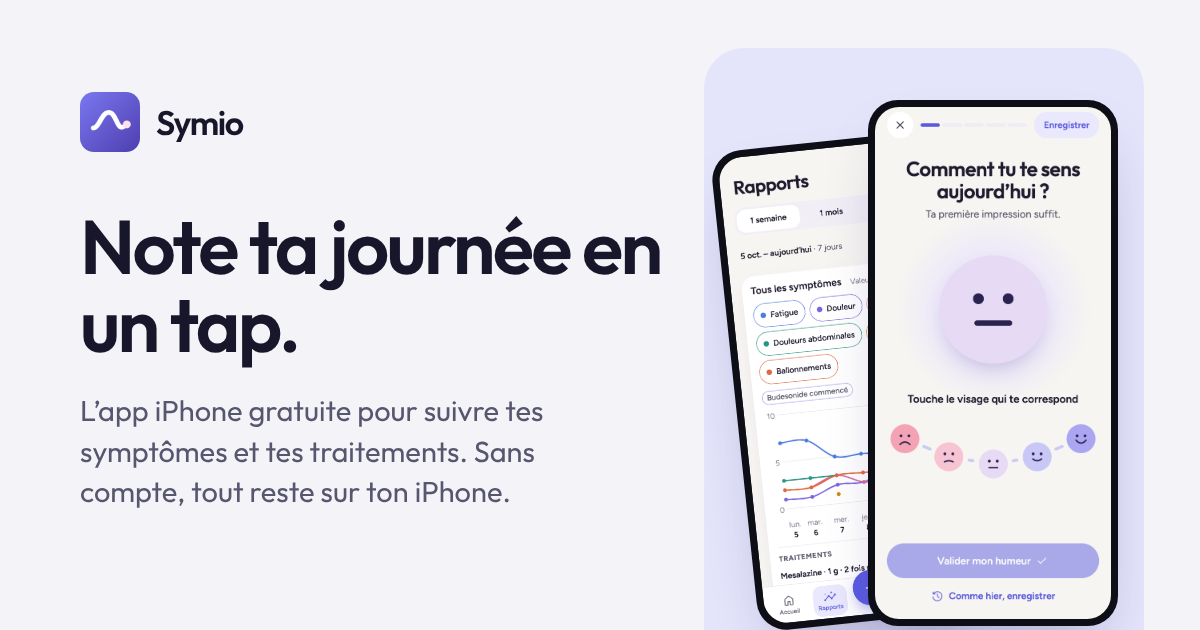
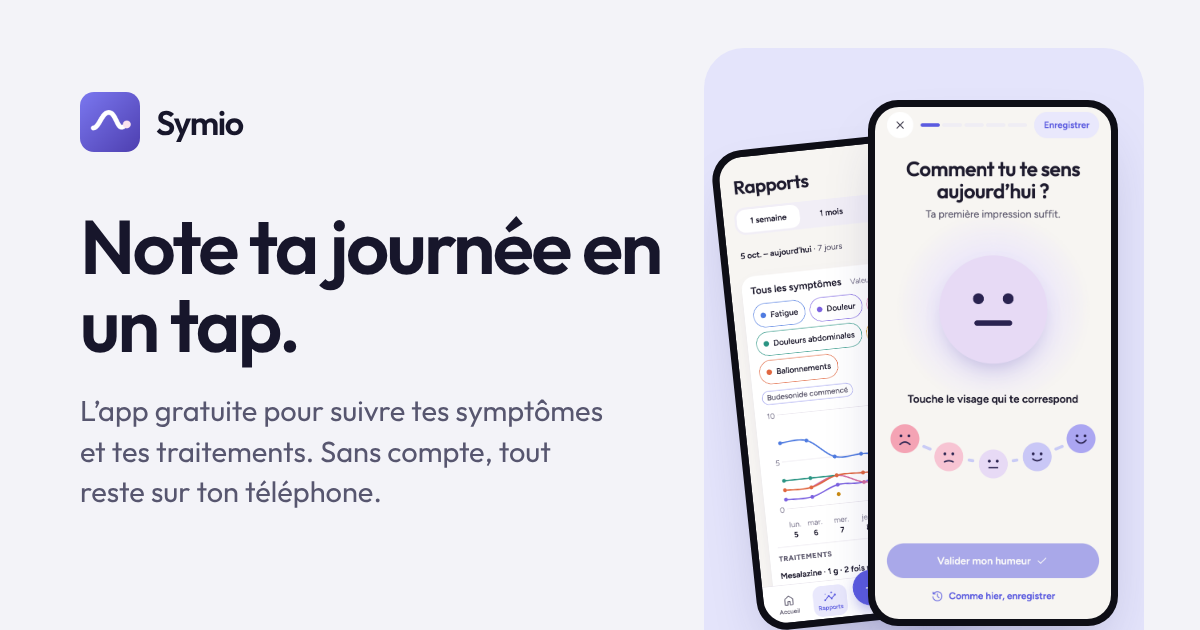
Accueil : passer de « iPhone » à « téléphone » et annoncer Android (#3)
* Politique de confidentialité : couvrir Android, retirer le 144

- Politique mise à jour au 24 octobre 2026 : iPhone et Android, Health Connect,
  biométrie Android, sauvegarde JSON, Google Drive, rapports Google,
  durée de conservation corrigée.
- « En cas d'urgence, appelle immédiatement les secours. » dans la politique,
  le pied de page, les mentions légales et la page contact.

Claude-Session: https://claude.ai/code/session_012zZLhTjtGnkCk5EvhRgJK9

* Accueil : passer de « iPhone » à « téléphone » et annoncer Android

Claude-Session: https://claude.ai/code/session_012zZLhTjtGnkCk5EvhRgJK9

---------

Changed region(s): [[0.0617, 0.6333, 0.4933, 0.8143]]

diff --git a/components/sections/Privacy.tsx b/components/sections/Privacy.tsx
@@ -3,8 +3,8 @@ import { Reveal } from "@/components/Reveal";
 
 const FACTS = [
   { Icon: UserCircleDashed, title: "Sans compte", body: "Tu ouvres l’app et tu commences." },
-  { Icon: DeviceMobile, title: "Sur ton iPhone", body: "Tes données sont enregistrées seulement sur ton téléphone." },
-  { Icon: ScanSmiley, title: "Face ID", body: "Verrouille l’app si tu le souhaites." },
+  { Icon: DeviceMobile, title: "Sur ton téléphone", body: "Tes données sont enregistrées seulement sur ton téléphone." },
+  { Icon: ScanSmiley, title: "Face ID ou empreinte", body: "Verrouille l’app si tu le souhaites." },
   { Icon: PaperPlaneTilt, title: "Ton choix", body: "Tu décides à qui envoyer ton résumé." },
 ];
 
@@ -15,7 +15,7 @@ export function Privacy() {
       <div className="grid grid-cols-1 gap-14 border-t border-line pt-20 md:pt-28 lg:grid-cols-12 lg:gap-10">
         <Reveal className="lg:col-span-6">
           <h2 className="max-w-[14ch] text-4xl font-semibold leading-[1.06] tracking-[-0.03em] md:text-[3.25rem]">
-            Tes données restent sur ton iPhone.
+            Tes données restent sur ton téléphone.
           </h2>
           <a
             href="/confidentialite/"

diff --git a/components/sections/Faq.tsx b/components/sections/Faq.tsx
@@ -3,10 +3,10 @@ import { Reveal } from "@/components/Reveal";
 
 const QUESTIONS = [
   { q: "Symio est-elle vraiment gratuite ?", a: "Oui. Symio est gratuite sur l’App Store." },
-  { q: "Faut-il créer un compte ?", a: "Non. Symio fonctionne sans compte, et tes données sont enregistrées seulement sur ton iPhone." },
+  { q: "Faut-il créer un compte ?", a: "Non. Symio fonctionne sans compte, et tes données sont enregistrées seulement sur ton téléphone." },
   { q: "Quelles maladies puis-je suivre ?", a: "Celle que tu veux. Tu choisis ta maladie et tes symptômes dans ton profil, ou tu suis simplement tes symptômes." },
   { q: "Symio remplace-t-elle mon médecin ?", a: "Non. Symio ne remplace pas un avis médical. Elle t’aide à garder une trace et à préparer tes rendez-vous." },
-  { q: "Sur quels appareils ?", a: "Symio est disponible sur iPhone." },
+  { q: "Sur quels appareils ?", a: "Symio est disponible sur iPhone et Android." },
 ];
 
 // Layout family: stacked accordion (native details, keyboard accessible).

diff --git a/app/layout.tsx b/app/layout.tsx
@@ -4,7 +4,7 @@ import "./globals.css";
 import { APP_STORE_ID, SITE_URL } from "@/lib/site";
 
 const description =
-  "L’app iPhone gratuite pour suivre tes symptômes, ton humeur et tes traitements, et préparer un résumé pour ton médecin. Sans compte : tout reste sur ton iPhone.";
+  "L’app gratuite, sur iPhone et Android, pour suivre tes symptômes, ton humeur et tes traitements, et préparer un résumé pour ton médecin. Sans compte : tout reste sur ton téléphone.";
 
 export const metadata: Metadata = {
   metadataBase: new URL(SITE_URL),
@@ -22,7 +22,7 @@ export const metadata: Metadata = {
     title: "Symio, note ta journée en un tap",
     description,
     url: "/",
-    images: [{ url: "/og.png", width: 1200, height: 630, alt: "Symio, l’app iPhone de suivi des symptômes" }],
+    images: [{ url: "/og.png", width: 1200, height: 630, alt: "Symio, l’app de suivi des symptômes" }],
   },
   twitter: {
     card: "summary_large_image",

diff --git a/components/sections/Features.tsx b/components/sections/Features.tsx
@@ -64,7 +64,7 @@ export function Features() {
         <Reveal className="lg:col-span-12">
           <article className="grid grid-cols-1 items-center gap-12 rounded-[var(--radius-card)] bg-accent px-8 py-12 text-accent-ink md:grid-cols-12 md:px-12 md:py-16">
             <div className="md:col-span-5">
-              <h3 className="text-3xl font-semibold tracking-[-0.025em] md:text-4xl">Clair ou sombre, comme ton iPhone.</h3>
+              <h3 className="text-3xl font-semibold tracking-[-0.025em] md:text-4xl">Clair ou sombre, comme ton téléphone.</h3>
               <p className="mt-4 max-w-[36ch] text-[17px] leading-relaxed opacity-85">
                 Symio suit le réglage de ton téléphone, pour rester doux à regarder, même tard le soir.
               </p>

diff --git a/scripts/og.html b/scripts/og.html
@@ -24,7 +24,7 @@
   <div class="copy">
     <div class="brand"><img src="../app/apple-icon.png" alt="">Symio</div>
     <h1>Note ta journée en un tap.</h1>
-    <p>L’app iPhone gratuite pour suivre tes symptômes et tes traitements. Sans compte, tout reste sur ton iPhone.</p>
+    <p>L’app gratuite pour suivre tes symptômes et tes traitements. Sans compte, tout reste sur ton téléphone.</p>
   </div>
   <div class="panel">
     <div class="phone back"><img src="../design/app-screens/light/03-rapports.png" alt=""></div>
